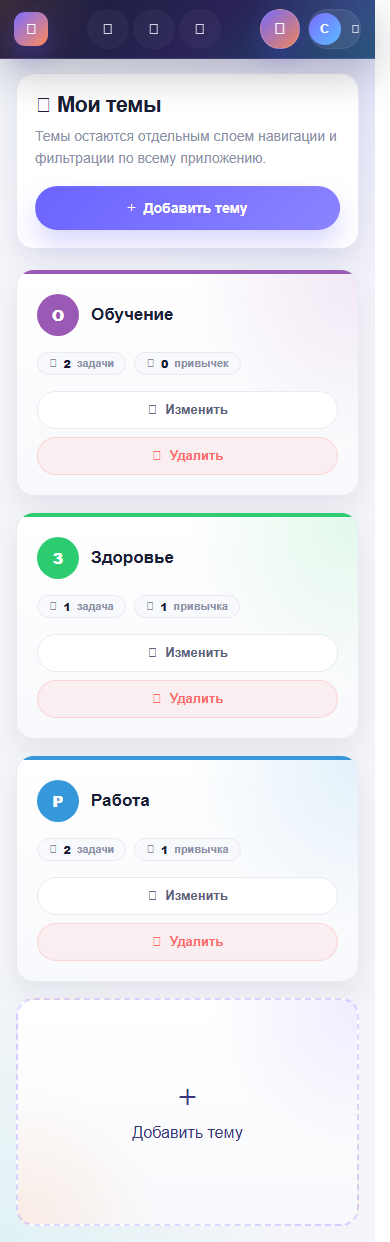
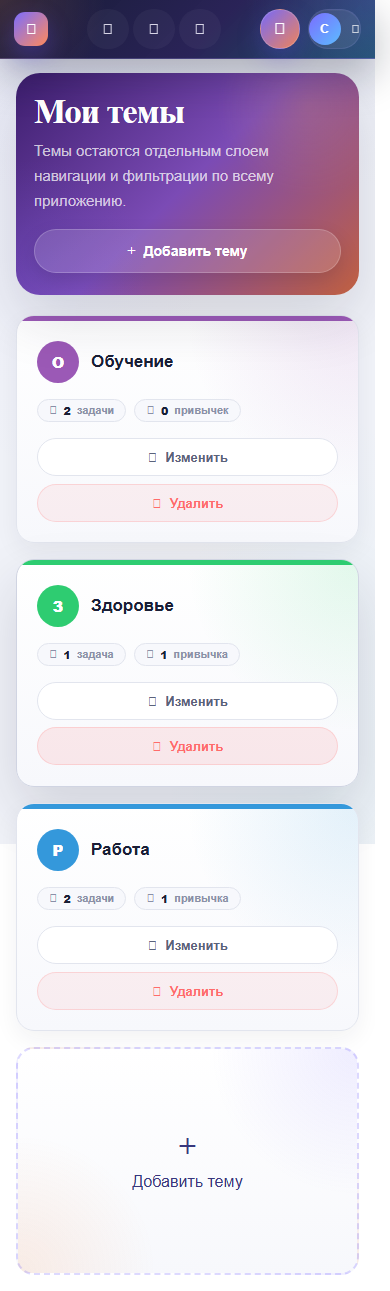
Refresh screenshot baseline for v3.0
Regenerated all 28 current-state screenshots (14 desktop + 14 mobile)
to reflect the v3.0 visual identity pass: hero banners, card accents,
redesigned color picker, and removed eyebrow badges.

diff --git a/docs/screenshots/current_state/README.md b/docs/screenshots/current_state/README.md
@@ -27,5 +27,5 @@ Screen set:
 - 14 register
 
 Seeded users:
-- desktop capture user: `currentstate.c06ea772a8024903@example.com`
-- mobile capture user: `currentstate.c06ea772a8024903@example.com`
+- desktop capture user: `currentstate.0f5bd5edcbb542ab@example.com`
+- mobile capture user: `currentstate.0f5bd5edcbb542ab@example.com`
